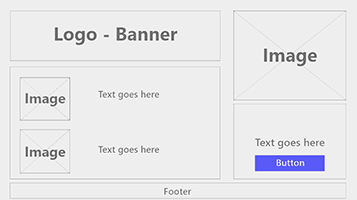
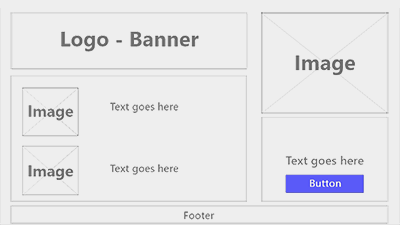
services

diff --git a/templated/assets/css/services/services.scss b/templated/assets/css/services/services.scss
@@ -242,3 +242,16 @@ h1 {
     opacity: 0;
   }
 }
+
+section {
+  display: table;
+  width: 100%;
+}
+
+section > * {
+  display: table-row;
+}
+
+section .col {
+  display: table-cell;
+}
